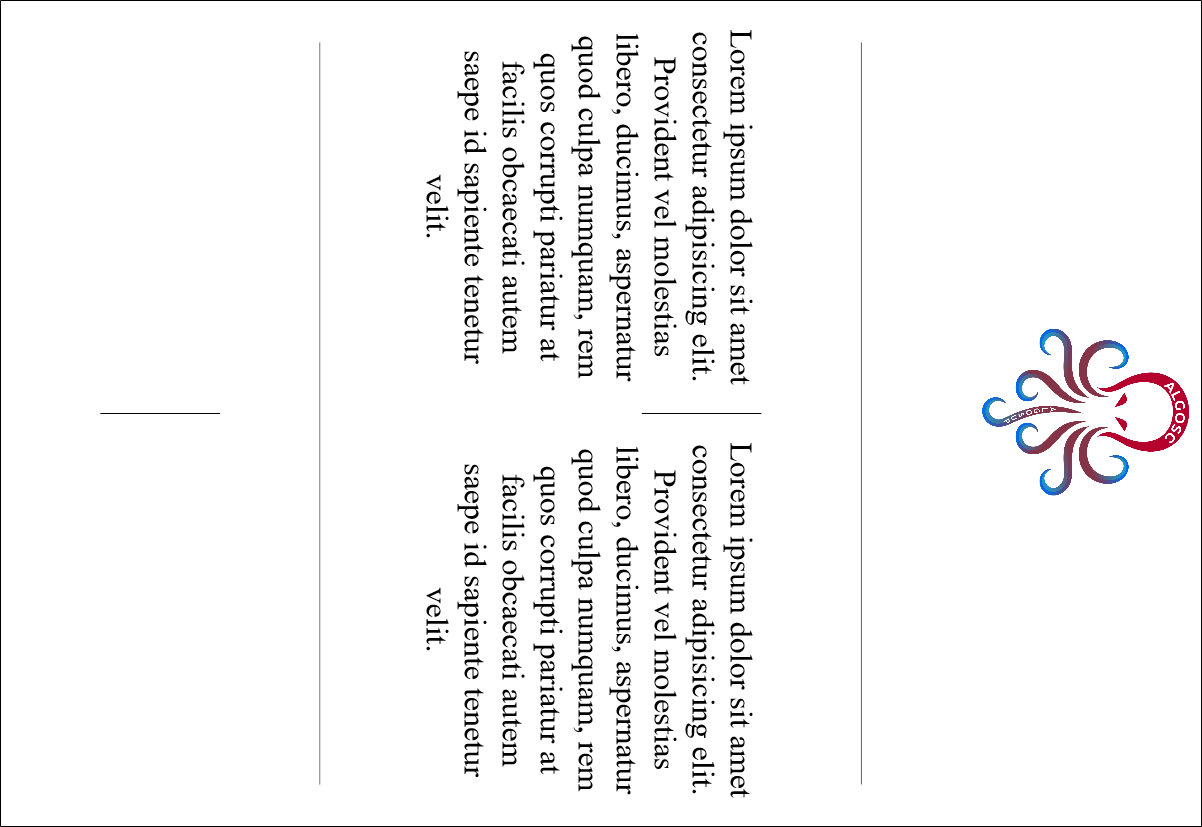
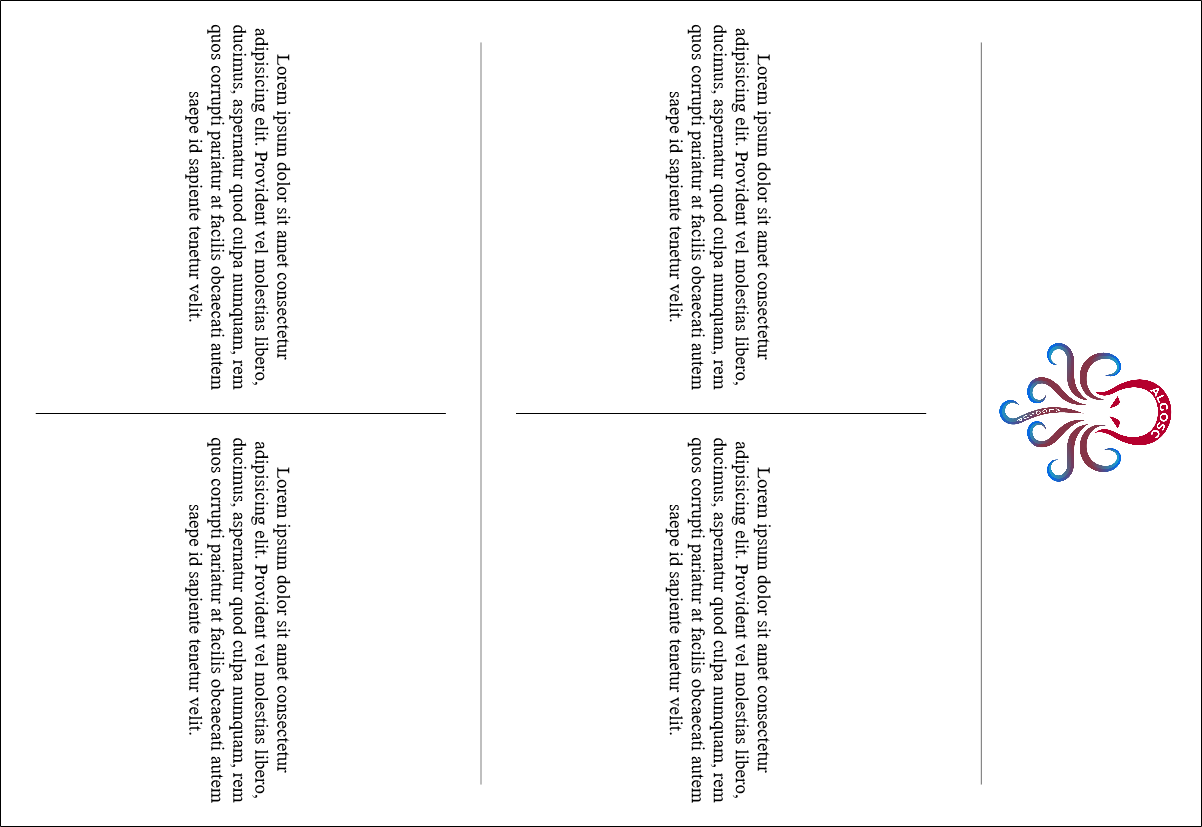
Code cleanup + Css adjustments

diff --git a/index.html b/index.html
@@ -11,24 +11,31 @@
 <body>
     <section id="board" style="width: 825px; height:1200px;">
         <!-- Header -->
-        <img src="./img/logo.png" alt="">
-        <span class="h-spacer" ></span>
+        <header>
+            <img src="./img/logo.png" alt="">
+            <span class="h-spacer" ></span>
+        </header>
+        <article>
 
-        <p>Lorem ipsum dolor sit amet consectetur adipisicing elit. Provident vel molestias libero, ducimus, aspernatur quod culpa numquam, rem quos corrupti pariatur at facilis obcaecati autem saepe id sapiente tenetur velit.</p>
-        <!-- First Part -->
-        <span class="v-spacer" style="height: 10%;"></span>
-        <p>Lorem ipsum dolor sit amet consectetur adipisicing elit. Provident vel molestias libero, ducimus, aspernatur quod culpa numquam, rem quos corrupti pariatur at facilis obcaecati autem saepe id sapiente tenetur velit.</p>
 
+            <p>Lorem ipsum dolor sit amet consectetur adipisicing elit. Provident vel molestias libero, ducimus, aspernatur quod culpa numquam, rem quos corrupti pariatur at facilis obcaecati autem saepe id sapiente tenetur velit.</p>
+            <!-- First Part -->
+            <span class="v-spacer"></span>
+            <p>Lorem ipsum dolor sit amet consectetur adipisicing elit. Provident vel molestias libero, ducimus, aspernatur quod culpa numquam, rem quos corrupti pariatur at facilis obcaecati autem saepe id sapiente tenetur velit.</p>
+
+
+        </article>
         <span class="h-spacer"></span>
-        <!-- Second Part -->
+        <article>
 
 
-        <span class="v-spacer" style="height: 10%;"></span>
-        
+            <p>Lorem ipsum dolor sit amet consectetur adipisicing elit. Provident vel molestias libero, ducimus, aspernatur quod culpa numquam, rem quos corrupti pariatur at facilis obcaecati autem saepe id sapiente tenetur velit.</p>
+            <!-- First Part -->
+            <span class="v-spacer"></span>
+            <p>Lorem ipsum dolor sit amet consectetur adipisicing elit. Provident vel molestias libero, ducimus, aspernatur quod culpa numquam, rem quos corrupti pariatur at facilis obcaecati autem saepe id sapiente tenetur velit.</p>
 
 
-
-
+        </article> 
     </section>
     
     <a id="downloadLnk">Convert</a>

diff --git a/css/style.css b/css/style.css
@@ -4,9 +4,23 @@
     flex-wrap: wrap;
     justify-content: space-evenly;
 }
-img{
+header{
+    width: 100%;
     height: 20%;
-    margin: 0 auto;
+    display: flex;
+    justify-content: center;
+    flex-direction: column;
+    align-items: center;
+}
+img{
+    width: 20%;
+}
+article{
+    width: 100%;
+    height: 38%;
+    display: flex;
+    justify-content: space-evenly;
+    align-items: center;
 }
 .h-spacer{
     width: 90%;
@@ -16,11 +30,12 @@ img{
 }
 .v-spacer{
     width: 1px;
+    height: 90%;
     background-color: #000;
 }
 p{
     text-align: center;
     margin: 0;
-    font-size: 2rem;
+    font-size: 1.2rem;
     max-width: 45%;
 }
